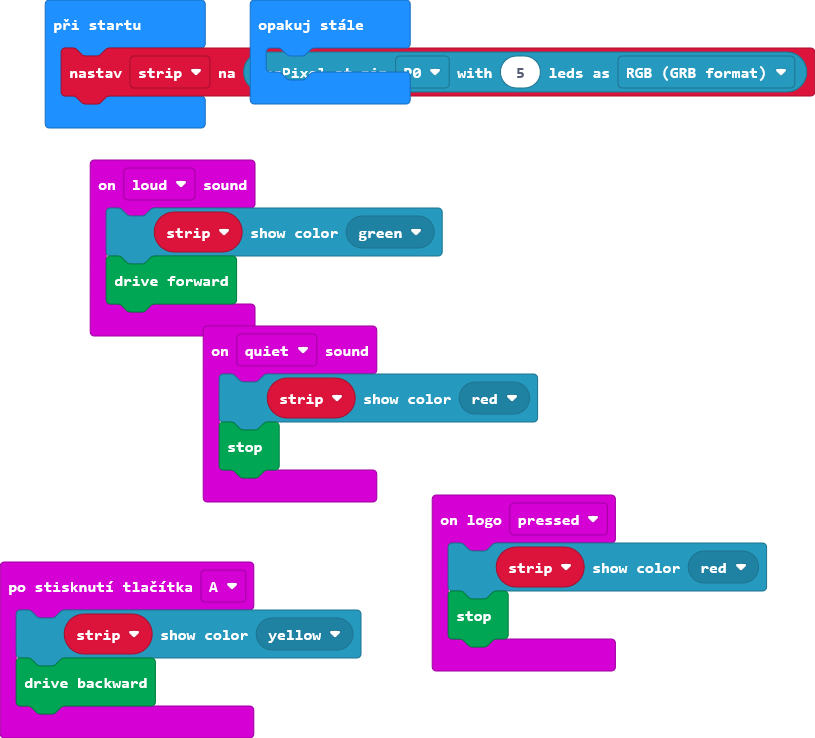
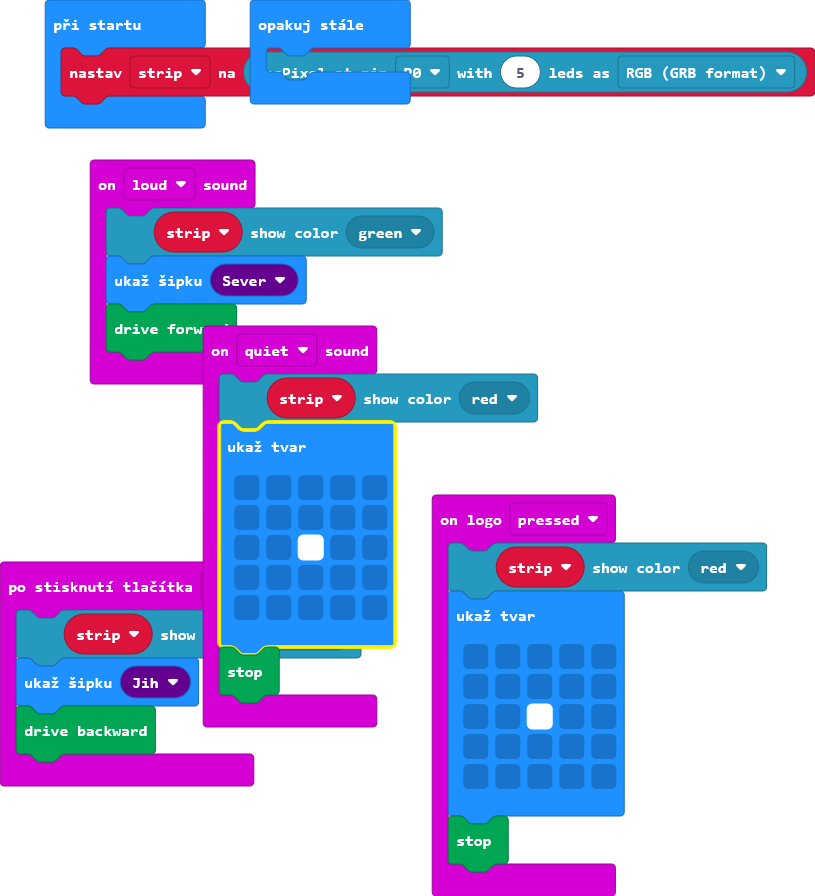
Aktualizovat main.blocks, main.ts

diff --git a/main.ts b/main.ts
@@ -1,17 +1,33 @@
 input.onButtonPressed(Button.A, function () {
     strip.showColor(neopixel.colors(NeoPixelColors.Yellow))
+    basic.showArrow(ArrowNames.South)
     kitronik_servo_lite.backward()
 })
 input.onSound(DetectedSound.Loud, function () {
     strip.showColor(neopixel.colors(NeoPixelColors.Green))
+    basic.showArrow(ArrowNames.North)
     kitronik_servo_lite.forward()
 })
 input.onSound(DetectedSound.Quiet, function () {
     strip.showColor(neopixel.colors(NeoPixelColors.Red))
+    basic.showLeds(`
+        . . . . .
+        . . . . .
+        . . # . .
+        . . . . .
+        . . . . .
+        `)
     kitronik_servo_lite.stop()
 })
 input.onLogoEvent(TouchButtonEvent.Pressed, function () {
     strip.showColor(neopixel.colors(NeoPixelColors.Red))
+    basic.showLeds(`
+        . . . . .
+        . . . . .
+        . . # . .
+        . . . . .
+        . . . . .
+        `)
     kitronik_servo_lite.stop()
 })
 let strip: neopixel.Strip = null
